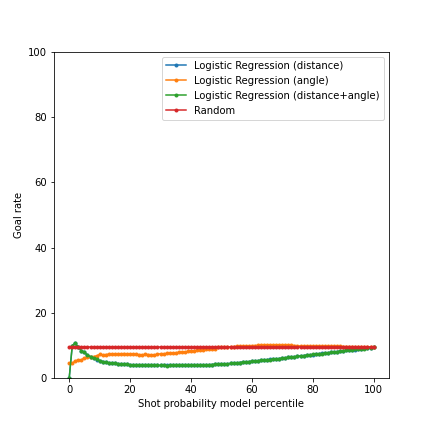
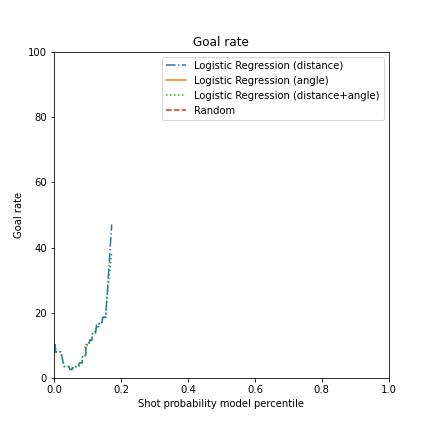
finish answers

diff --git a/_posts/2021-11-21-Milestone2.md b/_posts/2021-11-21-Milestone2.md
@@ -156,6 +156,8 @@ However, to have a fair and more significant evaluation, we should explore furth
 
 ### Question 2 & 3
 
+We used the validation dataset for the plots since it allows to evaluate more fairly the model performance.
+
 Figure 3.1 depicts the ROC curves for the different classifiers and Table 3.3 illustrates the AUC metric of ROC for these models.
 
 <figure> 
@@ -175,7 +177,7 @@ The curves of *LR(distance)* and *LR(distance+angle)* are identical which means 
 This actually makes sense in terms of ROC curve and AUC metric as we clearly see that the *LR(angle)* classifier has worse *AUC* score and its *ROC* curve is below the other curves which means it is performing worse in predicting expected goals.
 Compared to the *Random baseline*, the *LR(angle)* classifier has a comparable value 
 For some threshold values, the ROC curve of *LR(angle)* is below that of the random classifier.
-Eventhough *LR(distance)* and *LR(distance+angle)* have the *ROC* curve above that of the random baseline, their performance is not good enough as they have poor value of *AUC* (far from 1).
+Eventhough *LR(distance)* and *LR(distance+angle)* have the *ROC* curve above that of the random baseline, their performance is not good enough as they have poor value of *AUC* (far from 1) which means poor discrimination between the two target classes.
 
 *ROC* curves are also useful to determine a *cutoff value* for predicting expected goals.
 This would definitely help improving the performance of the classifiers compared to the case where we use *0.5* as a *cutoff* value. 
@@ -197,6 +199,9 @@ This threshold is obtained based on the maximization of the difference **True Po
 <dev style="display:block;text-align:center;">Table 3.5:  Best cutoff point for the different LR models</dev>
 
 
+
+
+
 Figure 3.2 shows the goal rate by shot probability model percentile.
 
 <figure> 
@@ -204,27 +209,49 @@ Figure 3.2 shows the goal rate by shot probability model percentile.
 <figcaption style="text-align:center;">Figure 3.2: Goal rate by shot probability model percentile</figcaption>
 </figure>
 
+Since, LR models are predicting low probability values (i.e. LR models are always predicting shots), we just see low values of percentiles.
+For instance the 90th percentile is equal to *0.19* approximately.
+We clearly see that the goal rate is increasing for higher shot probability model percentiles.
+This gives us intuition to fine-tune the probability threshold for predicting goals and non-goals (i.e. cutoff point).
+In fact, *0.5* does not seem a good value in that case for all the models.
+We used the thresholds produced by the *ROC curve* to optimize this cutoff point for all the models as mentioned previously.
+See notebook for *Task 3* for more details about the implementation.
+As a result, *0.1* seems to be a good cutoff point for all the LR models.
+It leads to better models performance.
+ 
 
 
-
+Figure 3.3 shows the cumulative proportion of goals by shot probability model percentile.
 
 <figure> 
 <img src="/assets/milestone2/3-goal_rate_percentile_2.png" alt="" style="margin:auto;">
 <figcaption style="text-align:center;">Figure 3.3: Cumulative proportion of goals by shot probability model percentile</figcaption>
 </figure>
 
+Similarly, we notice low values of shot probability model percentiles since LR models are predicting low probability values (i.e. LR models are always predicting shots).
+The cumulative propotion of goals increases significantly for probabilities higher than *0.1*.
+This confirms our choice of *cutoff point*.
+
+Figure 3.4 depicts the reliability diagram (calibration curve) of the different models.
+
 <figure> 
 <img src="/assets/milestone2/3-calibration_diagram.png" alt="" style="margin:auto;">
 <figcaption style="text-align:center;">Figure 3.4: Reliability diagram (calibration curve)</figcaption>
 </figure>
 
+The calibration diagram for the different LR models result in a single point.
+It is clear that the probabilistic predictions of the different classifiers are not well calibrated since we just see low probability values in a low range (the range of probabilities is approximately [0,2]).
+Thus we conclude that the calibration of the different basic models is poor.
+
+
 
 ### Question 4
 
 - Links to experiments in *comet.ml*:
-    - [Link to the experiment of dataset statistics in comet.ml](https://www.comet.ml/meriembchaaben/ift6758/b65854538ffd4dddaf1378a9679e23f1)
-    - [Link to experiments of Logistic Regression (distance) in comet.ml ](https://www.comet.ml/meriembchaaben/ift6758/fbea37d0aa6d46a488c82cb6fe912fb0)
-    - [Link to experiments of Logistic Regression (angle) in comet.ml ](https://www.comet.ml/meriembchaaben/ift6758/a0a1675d0895408faf2f476f91cf6e89)
+    - [Link to the experiment of dataset statistics in comet.ml](https://www.comet.ml/meriembchaaben/ift6758/da7f146cc6974f08ae55f364017f04e1?experiment-tab=chart)
+    - [Link to experiments of Logistic Regression (distance) in comet.ml ](https://www.comet.ml/meriembchaaben/ift6758/72c0b5895c2a4e5bb311400e64868f5c)
+    - [Link to experiments of Logistic Regression (angle) in comet.ml ](https://www.comet.ml/meriembchaaben/ift6758/406b588706924ead920acfdc2bd6a2db)
+    - [Link to experiments of Logistic Regression (distance+angle) in comet.ml ](https://www.comet.ml/meriembchaaben/ift6758/8a9f4662828a41db89fc3258b926c7da)
 
 - Links to registered models
     - [Link to Logistic Regression (distance) model in comet.ml ](https://www.comet.ml/meriembchaaben/model-registry/lr-distance-model)
@@ -236,6 +263,29 @@ Figure 3.2 shows the goal rate by shot probability model percentile.
 
 
 ## Task 4: Feature Engineering II
+
+Here, we describe the features that our dataset includes.
+
+- **lastEventType:** Type of previous event.
+- **lastEventPeriod:** Period of previous event.
+- **lastEventPeriodTime:** Time since period of previous event started. 
+- **lastEventXCoord:** x-coordinate of previous event. 
+- **lastEventYCoord:** y-coordinate of previous event. 
+- **gameSeconds:** Playing time elapsed between the beginning of the game and the current event in seconds.
+- **lastEventGameSeconds:** Playing time elapsed between the beginning of the game and the previous event in seconds.
+- **timeFromLastEvent:** time between current event and last event in seconds.
+- **distanceFromLastEvent:** Euclidean distance between current event and last event (if coordinates of both events are available).
+- **rebound:** True if last event was a shot.  Otherwise it’s False.
+- **lastEventAngle:** angle between goal and position of last event. 
+- **changeInAngleShot:** (only if previous event was shot) change in angle between current and previous event. 
+- **speed:** distanceFromLastEvent divided by timeFromLastEvent
+- **timeSincePowerPlayStarted:** Time since power play of the event’s team started in seconds. 
+- **numFriendlyNonGoalieSkaters:** number of friendly non-goalie players in the ice.
+- **numOpposingNonGoalieSkaters:** number of opposing non-goalie players in the ice. 
+- **strength2:** strength of team at current event (even, power play, short handed).
+
+This is the [link to the filtered dataframe](https://www.comet.ml/meriembchaaben/ift6758/0255c5bf62c6425aa6147c4f317f3f28?experiment-tab=assets) in *comet.ml*.
+
 
 ## Task 5: Advanced Models
 
